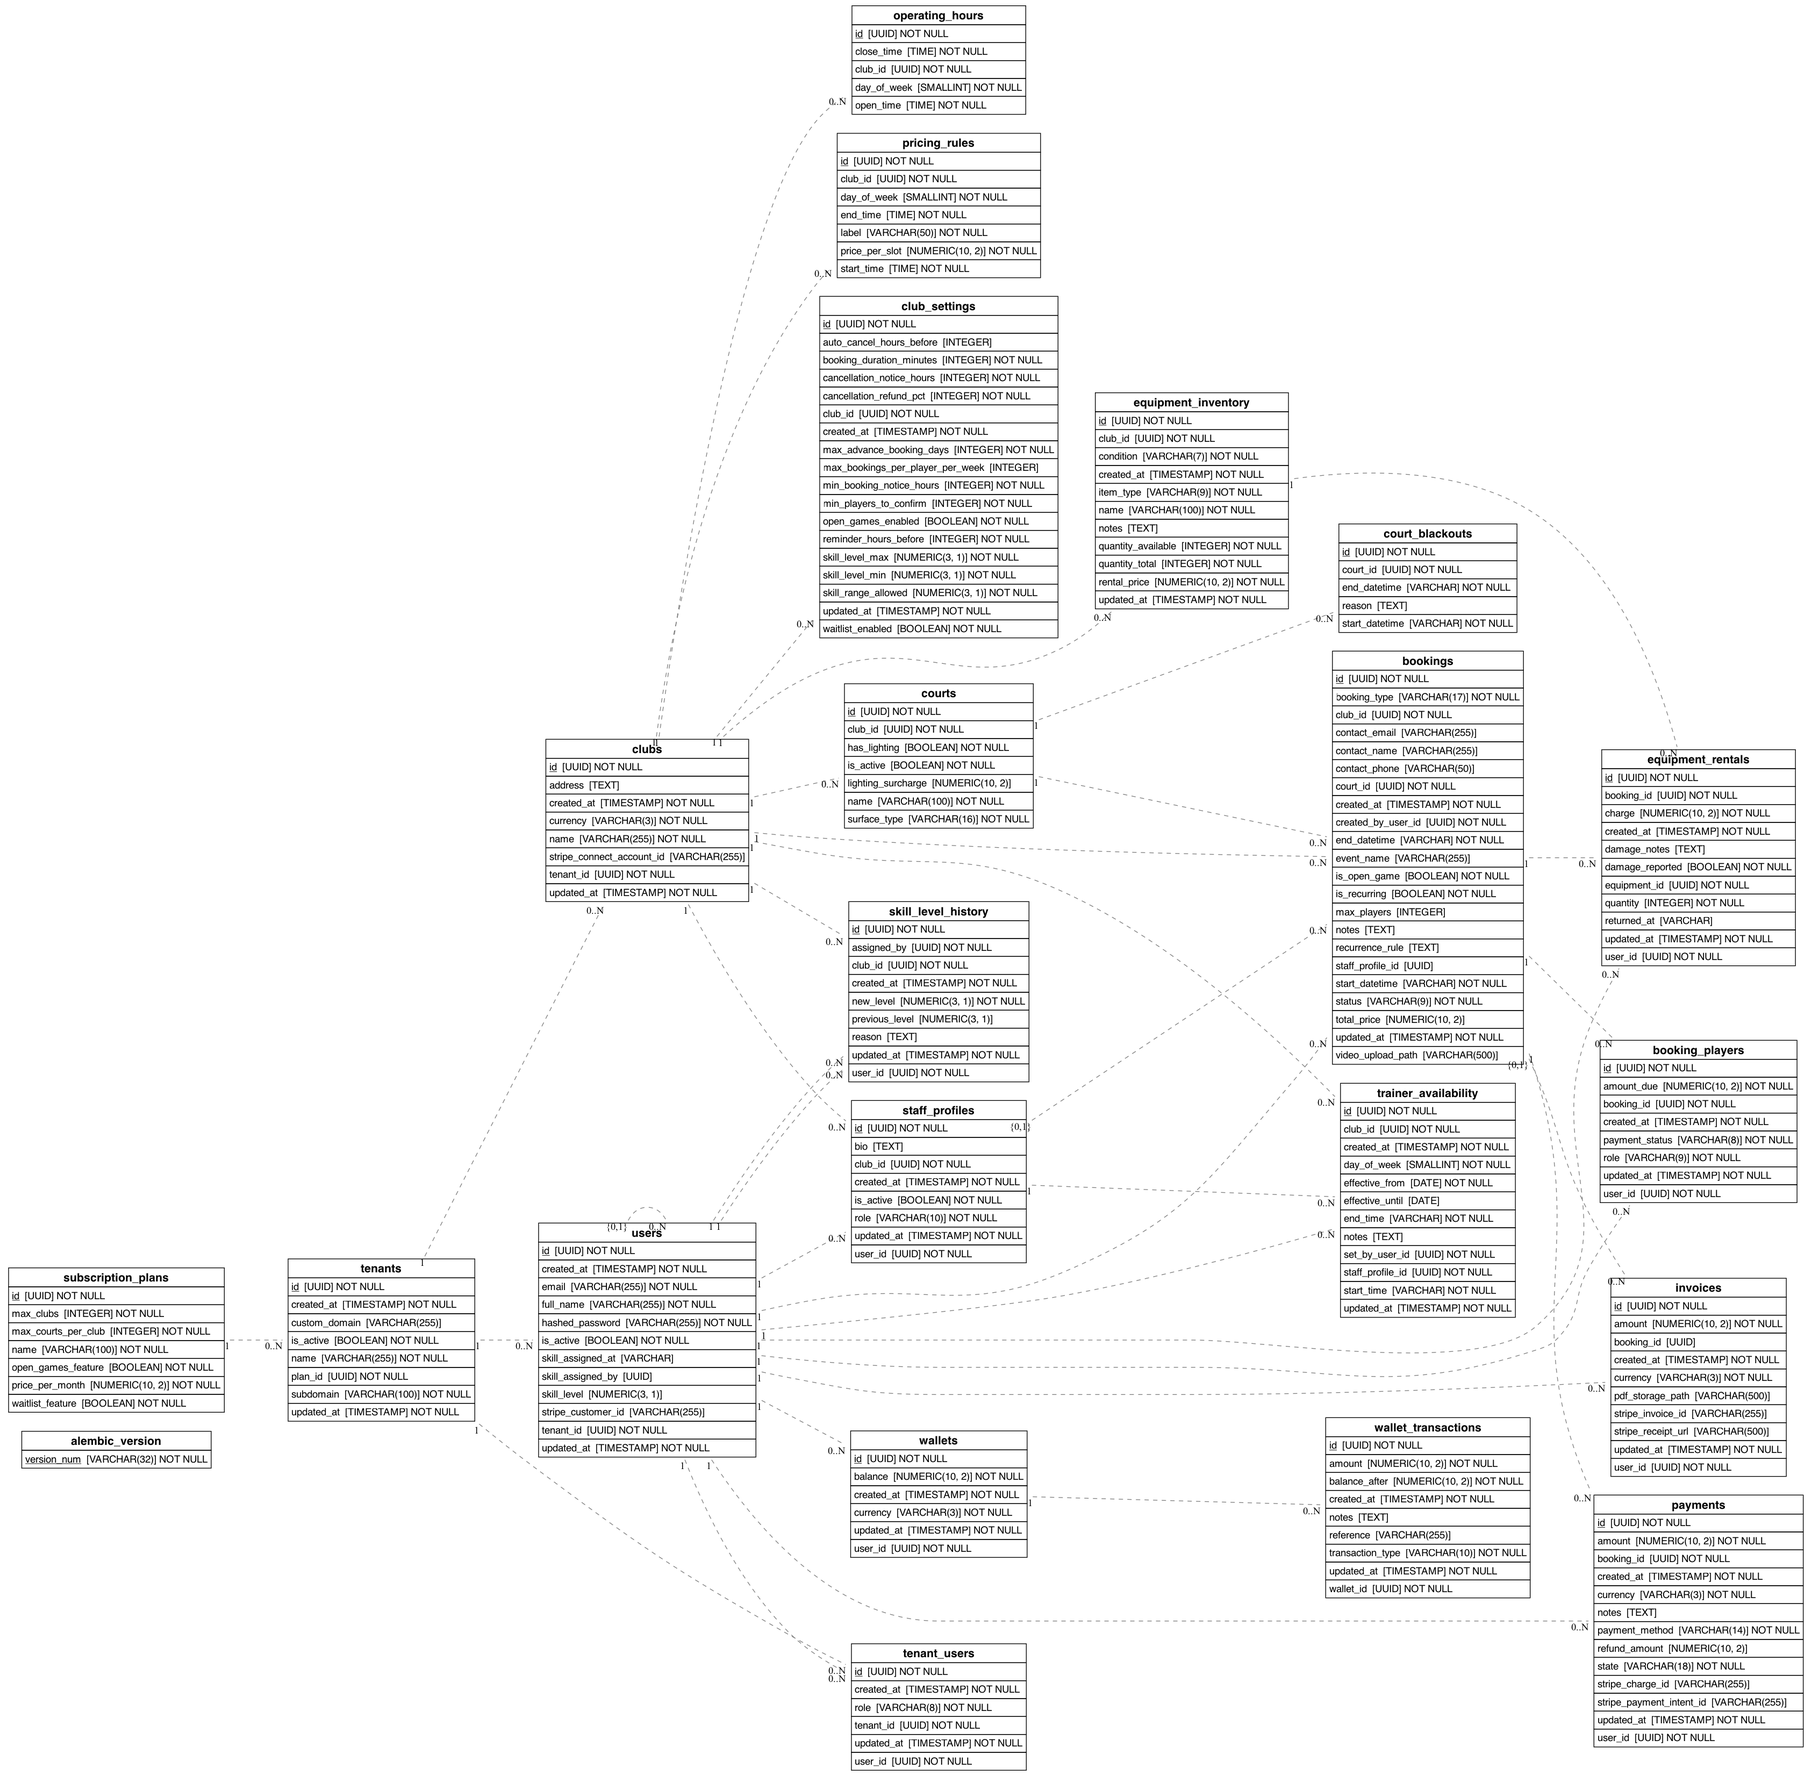
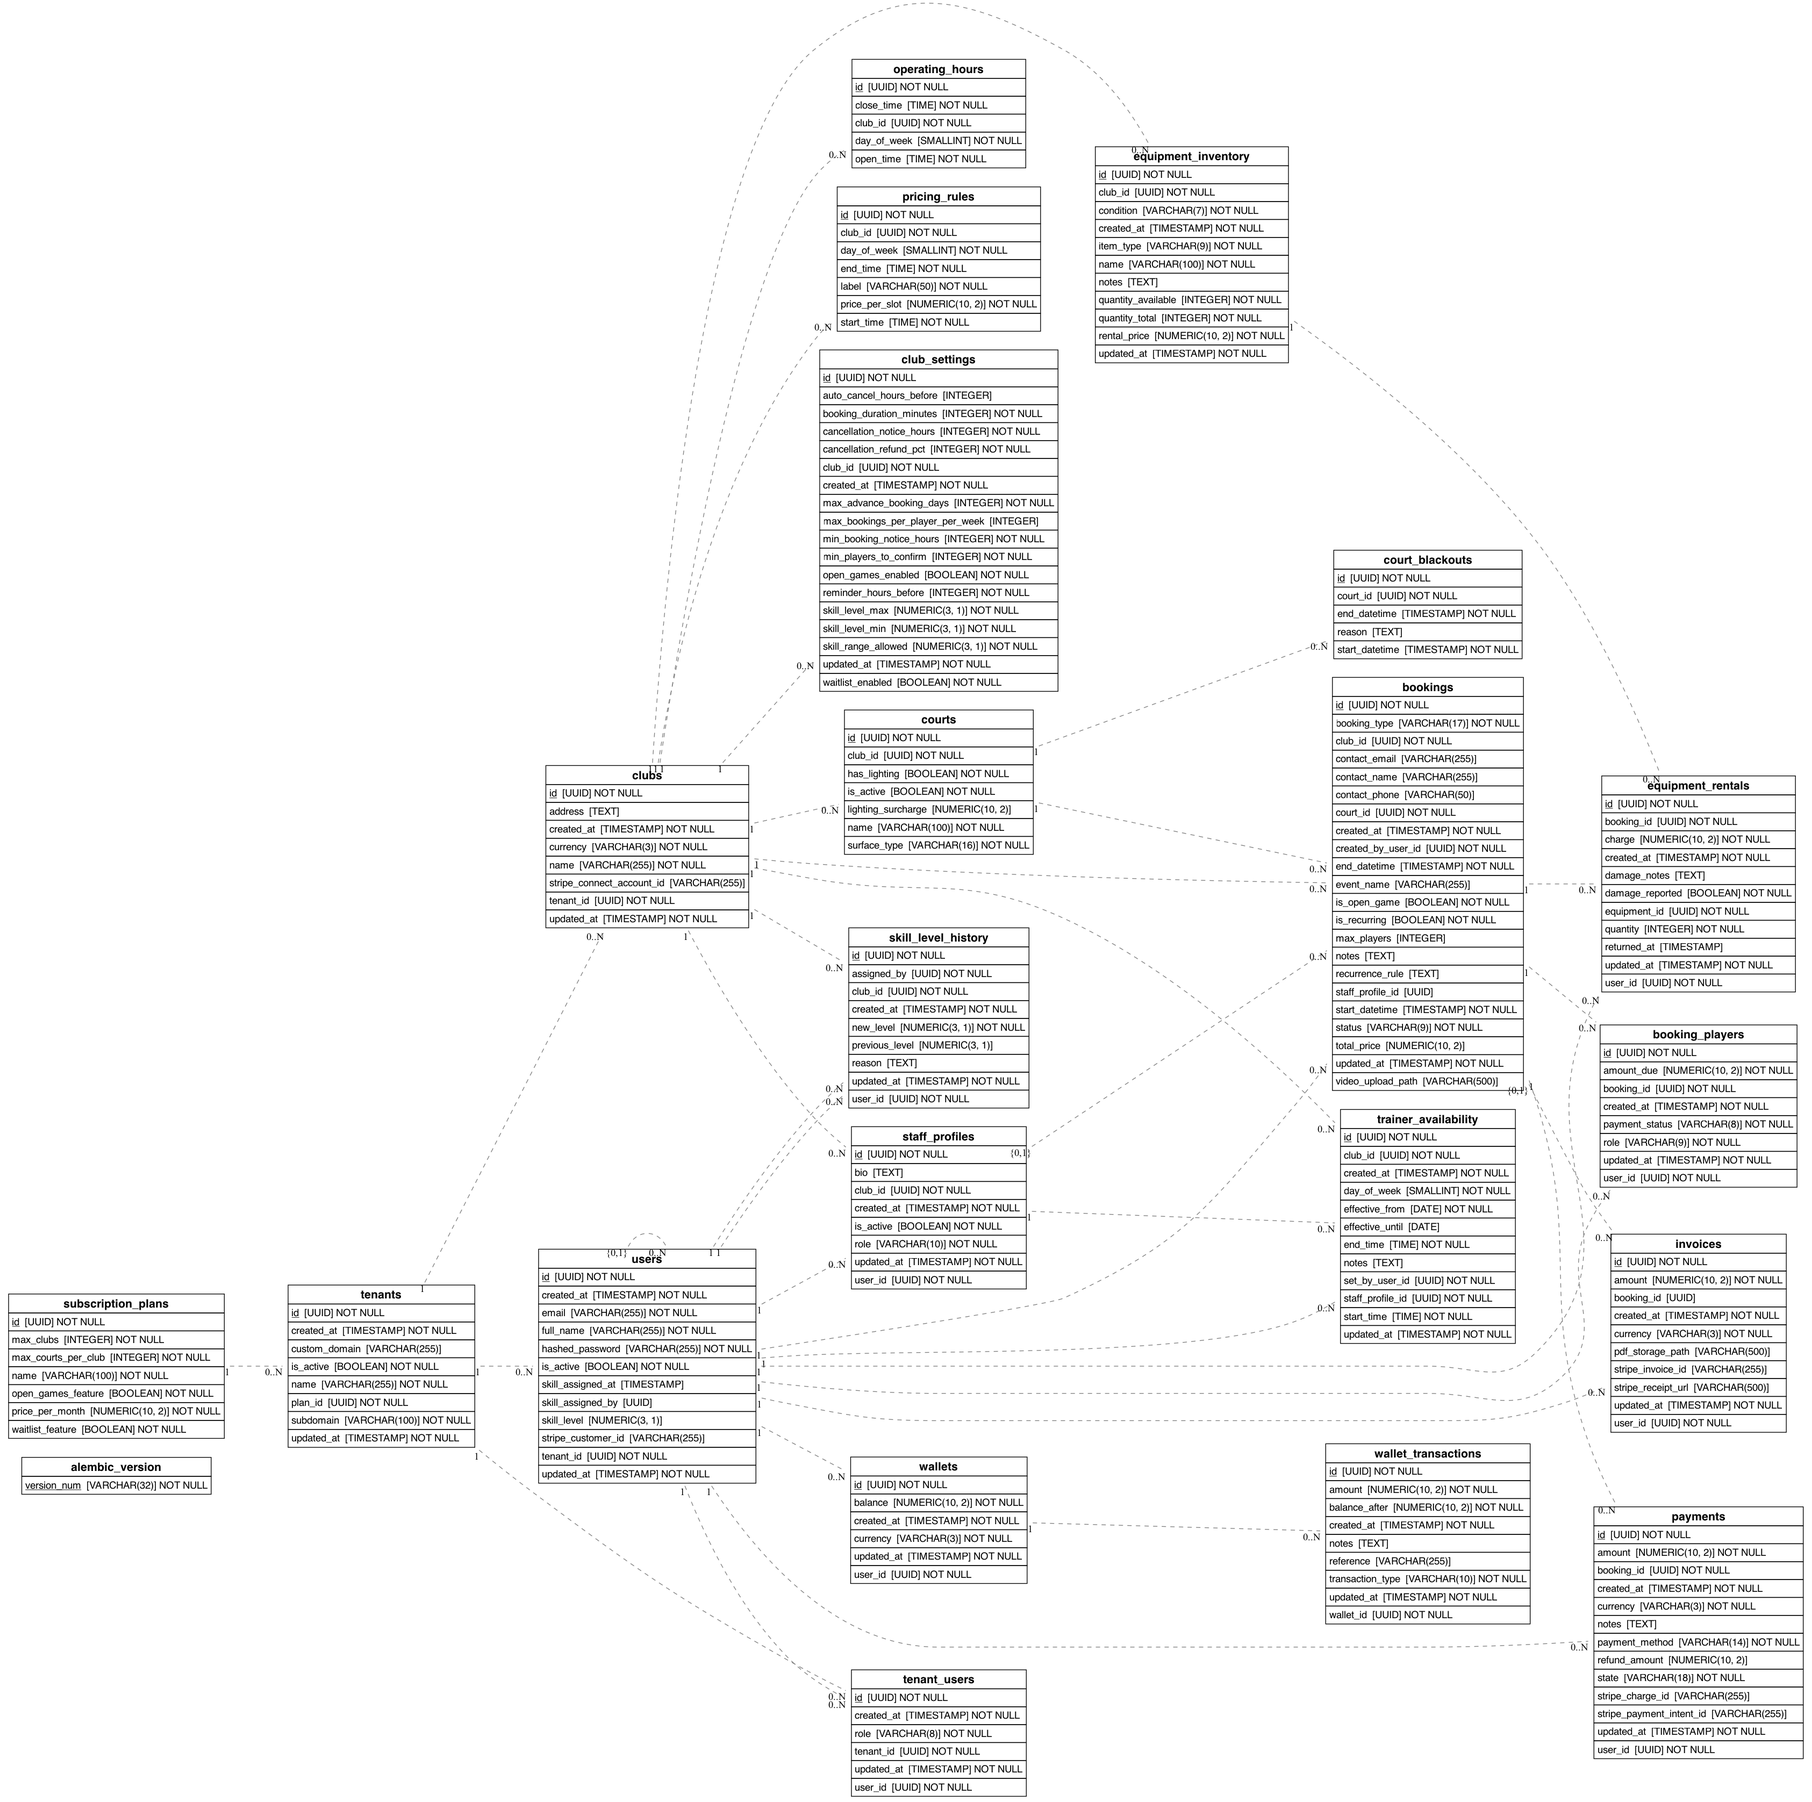
Fixes for SQLAlchemy on core modules

diff --git a/backend/app/db/migrations/versions/b9e1f2a3c4d5_fix_datetime_types_add_indexes.py b/backend/app/db/migrations/versions/b9e1f2a3c4d5_fix_datetime_types_add_indexes.py
@@ -1,0 +1,159 @@
+"""fix datetime types and add indexes
+
+Revision ID: b9e1f2a3c4d5
+Revises: 4f3a53db6bd2
+Create Date: 2026-03-01 00:00:00.000000
+
+Changes:
+- Convert String datetime columns to TIMESTAMPTZ (bookings, court_blackouts, users, equipment_rentals)
+- Convert String time columns to TIME (trainer_availability)
+- Convert all created_at/updated_at columns from TIMESTAMP to TIMESTAMPTZ
+- Add UniqueConstraint(tenant_id, email) on users
+- Add UniqueConstraint(booking_id, user_id) on booking_players
+- Add indexes on bookings for court conflict detection and club dashboards
+"""
+from typing import Sequence, Union
+
+import sqlalchemy as sa
+from alembic import op
+
+revision: str = "b9e1f2a3c4d5"
+down_revision: Union[str, None] = "4f3a53db6bd2"
+branch_labels: Union[str, Sequence[str], None] = None
+depends_on: Union[str, Sequence[str], None] = None
+
+# Tables that have created_at / updated_at from TimestampMixin
+_TIMESTAMP_TABLES = [
+    "tenants",
+    "clubs",
+    "users",
+    "club_settings",
+    "staff_profiles",
+    "trainer_availability",
+    "bookings",
+    "booking_players",
+    "equipment_inventory",
+    "equipment_rentals",
+    "skill_level_history",
+    "wallets",
+    "wallet_transactions",
+    "payments",
+    "invoices",
+    "tenant_users",
+]
+
+
+def upgrade() -> None:
+    # ── Convert String → TIMESTAMPTZ ────────────────────────────────────────
+
+    for col in ("start_datetime", "end_datetime"):
+        op.alter_column(
+            "bookings",
+            col,
+            existing_type=sa.String(),
+            type_=sa.DateTime(timezone=True),
+            postgresql_using=f"{col}::timestamptz",
+            nullable=False,
+        )
+
+    for col in ("start_datetime", "end_datetime"):
+        op.alter_column(
+            "court_blackouts",
+            col,
+            existing_type=sa.String(),
+            type_=sa.DateTime(timezone=True),
+            postgresql_using=f"{col}::timestamptz",
+            nullable=False,
+        )
+
+    op.alter_column(
+        "users",
+        "skill_assigned_at",
+        existing_type=sa.String(),
+        type_=sa.DateTime(timezone=True),
+        postgresql_using="skill_assigned_at::timestamptz",
+        nullable=True,
+    )
+
+    op.alter_column(
+        "equipment_rentals",
+        "returned_at",
+        existing_type=sa.String(),
+        type_=sa.DateTime(timezone=True),
+        postgresql_using="returned_at::timestamptz",
+        nullable=True,
+    )
+
+    # ── Convert String → TIME ────────────────────────────────────────────────
+
+    for col in ("start_time", "end_time"):
+        op.alter_column(
+            "trainer_availability",
+            col,
+            existing_type=sa.String(),
+            type_=sa.Time(),
+            postgresql_using=f"{col}::time",
+            nullable=False,
+        )
+
+    # ── Convert TIMESTAMP → TIMESTAMPTZ for all audit columns ───────────────
+
+    for table in _TIMESTAMP_TABLES:
+        op.alter_column(
+            table,
+            "created_at",
+            existing_type=sa.DateTime(),
+            type_=sa.DateTime(timezone=True),
+            postgresql_using="created_at AT TIME ZONE 'UTC'",
+            nullable=False,
+        )
+        op.alter_column(
+            table,
+            "updated_at",
+            existing_type=sa.DateTime(),
+            type_=sa.DateTime(timezone=True),
+            postgresql_using="updated_at AT TIME ZONE 'UTC'",
+            nullable=False,
+        )
+
+    # ── Unique constraints ───────────────────────────────────────────────────
+
+    op.create_unique_constraint("uq_users_tenant_email", "users", ["tenant_id", "email"])
+    op.create_unique_constraint(
+        "uq_booking_players_booking_user", "booking_players", ["booking_id", "user_id"]
+    )
+
+    # ── Indexes for court conflict detection and dashboard queries ───────────
+
+    op.create_index(
+        "ix_bookings_court_window",
+        "bookings",
+        ["court_id", "start_datetime", "end_datetime"],
+    )
+    op.create_index("ix_bookings_club_status", "bookings", ["club_id", "status"])
+    op.create_index("ix_bookings_club_start", "bookings", ["club_id", "start_datetime"])
+
+
+def downgrade() -> None:
+    op.drop_index("ix_bookings_club_start", table_name="bookings")
+    op.drop_index("ix_bookings_club_status", table_name="bookings")
+    op.drop_index("ix_bookings_court_window", table_name="bookings")
+
+    op.drop_constraint("uq_booking_players_booking_user", "booking_players", type_="unique")
+    op.drop_constraint("uq_users_tenant_email", "users", type_="unique")
+
+    for table in _TIMESTAMP_TABLES:
+        op.alter_column(table, "created_at", existing_type=sa.DateTime(timezone=True), type_=sa.DateTime(), nullable=False)
+        op.alter_column(table, "updated_at", existing_type=sa.DateTime(timezone=True), type_=sa.DateTime(), nullable=False)
+
+    for col in ("start_time", "end_time"):
+        op.alter_column("trainer_availability", col, existing_type=sa.Time(), type_=sa.String(), nullable=False)
+
+    op.alter_column("equipment_rentals", "returned_at", existing_type=sa.DateTime(timezone=True), type_=sa.String(), nullable=True)
+    op.alter_column("users", "skill_assigned_at", existing_type=sa.DateTime(timezone=True), type_=sa.String(), nullable=True)
+
+    for col in ("start_datetime", "end_datetime"):
+        op.alter_column("court_blackouts", col, existing_type=sa.DateTime(timezone=True), type_=sa.String(), nullable=False)
+
+    for col in ("start_datetime", "end_datetime"):
+        op.alter_column("bookings", col, existing_type=sa.DateTime(timezone=True), type_=sa.String(), nullable=False)

diff --git a/backend/app/db/models/booking.py b/backend/app/db/models/booking.py
@@ -1,5 +1,5 @@
 import enum
-from sqlalchemy import Column, String, Integer, ForeignKey, Numeric, Text, Boolean, Enum
+from sqlalchemy import Column, String, Integer, ForeignKey, Numeric, Text, Boolean, Enum, DateTime, Index, UniqueConstraint
 from sqlalchemy.dialects.postgresql import UUID
 from sqlalchemy.orm import relationship
 from .base import Base, UUIDMixin, TimestampMixin
@@ -33,13 +33,18 @@ class PaymentStatus(str, enum.Enum):
 
 class Booking(Base, UUIDMixin, TimestampMixin):
     __tablename__ = "bookings"
+    __table_args__ = (
+        Index("ix_bookings_court_window", "court_id", "start_datetime", "end_datetime"),
+        Index("ix_bookings_club_status", "club_id", "status"),
+        Index("ix_bookings_club_start", "club_id", "start_datetime"),
+    )
 
     club_id = Column(UUID(as_uuid=True), ForeignKey("clubs.id"), nullable=False)
     court_id = Column(UUID(as_uuid=True), ForeignKey("courts.id"), nullable=False)
     booking_type = Column(Enum(BookingType), nullable=False)
     status = Column(Enum(BookingStatus), nullable=False, default=BookingStatus.pending)
-    start_datetime = Column(String, nullable=False)
-    end_datetime = Column(String, nullable=False)
+    start_datetime = Column(DateTime(timezone=True), nullable=False)
+    end_datetime = Column(DateTime(timezone=True), nullable=False)
     created_by_user_id = Column(UUID(as_uuid=True), ForeignKey("users.id"), nullable=False)
     staff_profile_id = Column(UUID(as_uuid=True), ForeignKey("staff_profiles.id"), nullable=True)
     event_name = Column(String(255), nullable=True)
@@ -64,6 +69,9 @@ class Booking(Base, UUIDMixin, TimestampMixin):
 
 class BookingPlayer(Base, UUIDMixin, TimestampMixin):
     __tablename__ = "booking_players"
+    __table_args__ = (
+        UniqueConstraint("booking_id", "user_id", name="uq_booking_players_booking_user"),
+    )
 
     booking_id = Column(UUID(as_uuid=True), ForeignKey("bookings.id"), nullable=False)
     user_id = Column(UUID(as_uuid=True), ForeignKey("users.id"), nullable=False)

diff --git a/backend/app/db/models/user.py b/backend/app/db/models/user.py
@@ -1,5 +1,5 @@
 import enum
-from sqlalchemy import Column, String, Boolean, ForeignKey, Numeric, Enum
+from sqlalchemy import Column, String, Boolean, ForeignKey, Numeric, Enum, DateTime, UniqueConstraint
 from sqlalchemy.dialects.postgresql import UUID
 from sqlalchemy.orm import relationship
 from .base import Base, UUIDMixin, TimestampMixin
@@ -17,6 +17,9 @@ class TenantUserRole(str, enum.Enum):
 
 class User(Base, UUIDMixin, TimestampMixin):
     __tablename__ = "users"
+    __table_args__ = (
+        UniqueConstraint("tenant_id", "email", name="uq_users_tenant_email"),
+    )
 
     tenant_id = Column(UUID(as_uuid=True), ForeignKey("tenants.id"), nullable=False)
     email = Column(String(255), nullable=False)
@@ -24,7 +27,7 @@ class User(Base, UUIDMixin, TimestampMixin):
     hashed_password = Column(String(255), nullable=False)
     skill_level = Column(Numeric(3, 1), nullable=True)
     skill_assigned_by = Column(UUID(as_uuid=True), ForeignKey("users.id"), nullable=True)
-    skill_assigned_at = Column(String, nullable=True)
+    skill_assigned_at = Column(DateTime(timezone=True), nullable=True)
     is_active = Column(Boolean, nullable=False, default=True)
     stripe_customer_id = Column(String(255), nullable=True)
 

diff --git a/backend/app/db/models/staff.py b/backend/app/db/models/staff.py
@@ -1,5 +1,5 @@
 import enum
-from sqlalchemy import Column, String, Boolean, ForeignKey, Text, SmallInteger, Date, Enum
+from sqlalchemy import Column, Boolean, ForeignKey, Text, SmallInteger, Date, Enum, Time
 from sqlalchemy.dialects.postgresql import UUID
 from sqlalchemy.orm import relationship
 from .base import Base, UUIDMixin, TimestampMixin
@@ -32,8 +32,8 @@ class TrainerAvailability(Base, UUIDMixin, TimestampMixin):
     staff_profile_id = Column(UUID(as_uuid=True), ForeignKey("staff_profiles.id"), nullable=False)
     club_id = Column(UUID(as_uuid=True), ForeignKey("clubs.id"), nullable=False)
     day_of_week = Column(SmallInteger, nullable=False)
-    start_time = Column(String, nullable=False)
-    end_time = Column(String, nullable=False)
+    start_time = Column(Time, nullable=False)
+    end_time = Column(Time, nullable=False)
     set_by_user_id = Column(UUID(as_uuid=True), ForeignKey("users.id"), nullable=False)
     effective_from = Column(Date, nullable=False)
     effective_until = Column(Date, nullable=True)

diff --git a/backend/app/db/models/equipment.py b/backend/app/db/models/equipment.py
@@ -1,5 +1,5 @@
 import enum
-from sqlalchemy import Column, String, Boolean, ForeignKey, Integer, Numeric, Text, Enum
+from sqlalchemy import Column, String, Boolean, ForeignKey, Integer, Numeric, Text, Enum, DateTime
 from sqlalchemy.dialects.postgresql import UUID
 from sqlalchemy.orm import relationship
 from .base import Base, UUIDMixin, TimestampMixin
@@ -44,7 +44,7 @@ class EquipmentRental(Base, UUIDMixin, TimestampMixin):
     charge = Column(Numeric(10, 2), nullable=False)
     damage_reported = Column(Boolean, nullable=False, default=False)
     damage_notes = Column(Text, nullable=True)
-    returned_at = Column(String, nullable=True)
+    returned_at = Column(DateTime(timezone=True), nullable=True)
 
     booking = relationship("Booking", back_populates="equipment_rentals")
     equipment = relationship("EquipmentInventory", back_populates="rentals")

diff --git a/backend/app/db/models/court.py b/backend/app/db/models/court.py
@@ -1,5 +1,5 @@
 import enum
-from sqlalchemy import Column, String, Boolean, ForeignKey, Numeric, Text, Enum
+from sqlalchemy import Column, String, Boolean, ForeignKey, Numeric, Text, Enum, DateTime
 from sqlalchemy.dialects.postgresql import UUID
 from sqlalchemy.orm import relationship
 from .base import Base, UUIDMixin
@@ -31,8 +31,8 @@ class CourtBlackout(Base, UUIDMixin):
     __tablename__ = "court_blackouts"
 
     court_id = Column(UUID(as_uuid=True), ForeignKey("courts.id"), nullable=False)
-    start_datetime = Column(String, nullable=False)
-    end_datetime = Column(String, nullable=False)
+    start_datetime = Column(DateTime(timezone=True), nullable=False)
+    end_datetime = Column(DateTime(timezone=True), nullable=False)
     reason = Column(Text, nullable=True)
 
     court = relationship("Court", back_populates="blackouts")

diff --git a/backend/app/db/models/base.py b/backend/app/db/models/base.py
@@ -1,6 +1,5 @@
 import uuid
-from datetime import datetime
-from sqlalchemy import Column, DateTime
+from sqlalchemy import Column, DateTime, func
 from sqlalchemy.dialects.postgresql import UUID
 from sqlalchemy.orm import DeclarativeBase
 
@@ -10,8 +9,8 @@ class Base(DeclarativeBase):
 
 
 class TimestampMixin:
-    created_at = Column(DateTime, nullable=False, default=datetime.utcnow)
-    updated_at = Column(DateTime, nullable=False, default=datetime.utcnow, onupdate=datetime.utcnow)
+    created_at = Column(DateTime(timezone=True), nullable=False, server_default=func.now())
+    updated_at = Column(DateTime(timezone=True), nullable=False, server_default=func.now(), onupdate=func.now())
 
 
 class UUIDMixin:

diff --git a/TASKS.md b/TASKS.md
@@ -11,7 +11,7 @@
 - [ ] Waitlist logic for fully booked slots
 
 ### Technical Foundation
-- [ ] SQLAlchemy models for core entities (Court, Booking, User, Pricing)
+- [ ] Extend SQLAlchemy models with additional capabilities (waitlist, membership tiers, recurring bookings)
 - [ ] Configure multi-tenant middleware in FastAPI
 
 ---
@@ -28,14 +28,6 @@
 - [ ] Equipment rental add-ons at booking
 - [ ] Recurring booking / membership subscriptions
 
-## ✅ Done
-- [x] Git repo setup
-- [x] FastAPI project structure
-- [x] .gitignore configuration
-- [x] Naming — SmashBook confirmed, no active trademarks
-
----
-
 ## 💼 Business Actions
 - [ ] **Dom (lawyer)** — intro call, get buy-in, discuss IP/trademark filing and company structure
 - [ ] **Javi (club owner)** — demo concept, validate pricing model, explore as pilot club
@@ -50,3 +42,16 @@
 - Javi could be a great design partner — real operational input on pricing/booking rules
 - Multi-tenant: row-level security vs schema-per-tenant decision still pending
 - Reference Playtomic pricing model during pricing logic design
+
+---
+
+## ✅ Done
+
+### Product
+- [x] SQLAlchemy models for core entities (Court, Booking, User, Pricing)
+- [x] FastAPI project structure
+- [x] Git repo setup
+- [x] .gitignore configuration
+
+### Business
+- [x] Naming — SmashBook confirmed, no active trademarks
